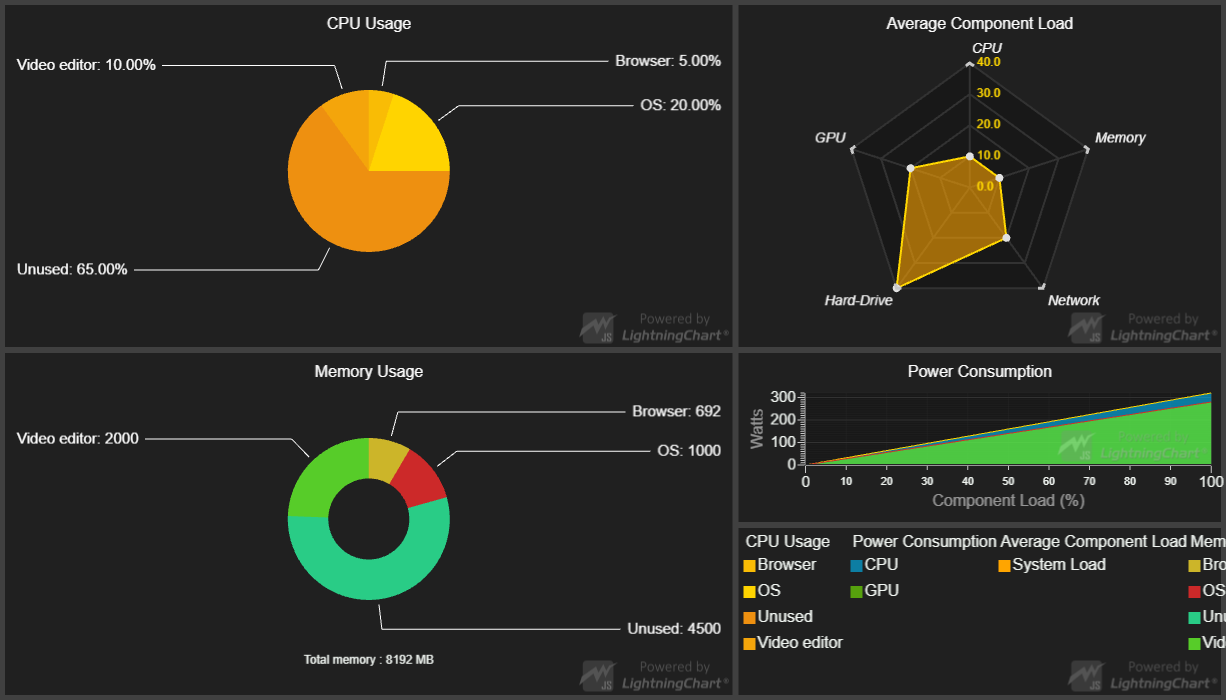
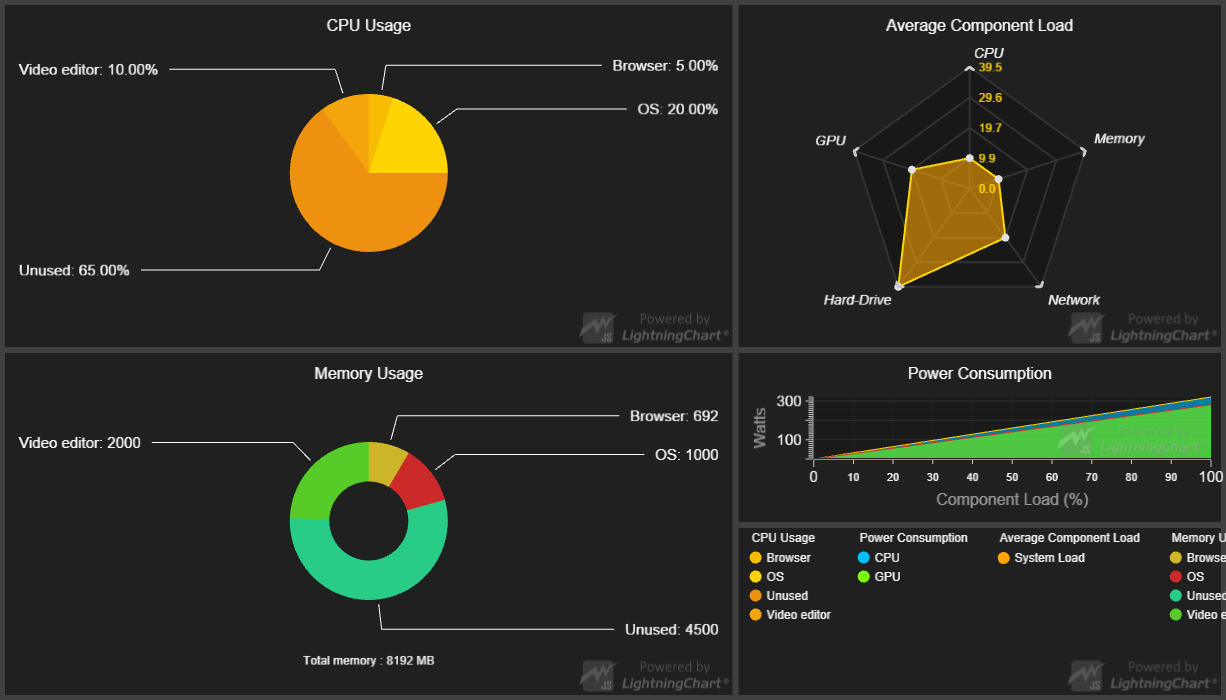
LCJS 3.0.0

diff --git a/src/index.js b/src/index.js
@@ -165,14 +165,14 @@ const pieType = window.innerWidth > 850 ? PieChartTypes.LabelsOnSides : PieChart
 
     // Set the custom result table
     areaCPU
-        .setResultTableFormatter((builder, series, position, highValue, lowValue) => {
+        .setCursorResultTableFormatter((builder, series, position, highValue, lowValue) => {
             return builder
                 .addRow('CPU')
                 .addRow('Power Consumption ' + highValue.toFixed(0) + ' watts')
                 .addRow('component load ' + position.toFixed(0) + ' %')
         })
     areaGPU
-        .setResultTableFormatter((builder, series, position, highValue, lowValue) => {
+        .setCursorResultTableFormatter((builder, series, position, highValue, lowValue) => {
             return builder
                 .addRow('GPU')
                 .addRow('Power Consumption ' + highValue.toFixed(0) + ' watts')
@@ -206,7 +206,7 @@ const pieType = window.innerWidth > 850 ? PieChartTypes.LabelsOnSides : PieChart
             { axis: 'Hard-Drive', value: 40 },
             { axis: 'GPU', value: 20 }
         )
-        .setResultTableFormatter((tableContentBuilder, series, value, axis, formatValue) => tableContentBuilder
+        .setCursorResultTableFormatter((tableContentBuilder, series, value, axis, formatValue) => tableContentBuilder
             .addRow(series.name)
             .addRow(axis)
             .addRow(value + ' %')
@@ -259,7 +259,7 @@ const pieType = window.innerWidth > 850 ? PieChartTypes.LabelsOnSides : PieChart
     // ----- Add TextBox below the Donut Chart-----
     donut.addUIElement(UIElementBuilders.TextBox.addStyler(
         textBox =>
-            textBox.setFont(fontSettings => fontSettings.setSize(12)).setText(`Total memory : ${totalMemoryUse} MB`)
+            textBox.setTextFont(fontSettings => fontSettings.setSize(12)).setText(`Total memory : ${totalMemoryUse} MB`)
     )
     )
         .setPosition({ x: 50, y: 10 })
@@ -271,3 +271,15 @@ const pieType = window.innerWidth > 850 ? PieChartTypes.LabelsOnSides : PieChart
 grid.setRowHeight(0, 2)
 grid.setColumnWidth(0, 3)
 grid.setColumnWidth(1, 2)
+
+// Reduce Font size of LegendBoxes.
+legend.setLegendBoxes((legendBox) => legendBox
+    .setTitleFont((font) => font
+        .setSize(12)
+    )
+    .setEntries((entry) => entry
+        .setTextFont((font) => font
+            .setSize(12)
+        )
+    )
+)

diff --git a/README.md b/README.md
@@ -55,12 +55,12 @@ Direct developer email support can be purchased through a [Support Plan][4] or b
 © Arction Ltd 2009-2020. All rights reserved.
 
 
-[Dashboard]: https://www.arction.com/lightningchart-js-api-documentation/v2.2.0/classes/dashboard.html
-[Solid FillStyle]: https://www.arction.com/lightningchart-js-api-documentation/v2.2.0/classes/solidfill.html
-[RGBA color factory]: https://www.arction.com/lightningchart-js-api-documentation/v2.2.0/globals.html#colorrgba
-[XY cartesian chart]: https://www.arction.com/lightningchart-js-api-documentation/v2.2.0/classes/chartxy.html
-[Axis]: https://www.arction.com/lightningchart-js-api-documentation/v2.2.0/classes/axis.html
-[Pie chart]: https://www.arction.com/lightningchart-js-api-documentation/v2.2.0/classes/piechart.html
-[Spider chart]: https://www.arction.com/lightningchart-js-api-documentation/v2.2.0/classes/spiderchart.html
-[Default library style]: https://www.arction.com/lightningchart-js-api-documentation/v2.2.0/globals.html#defaultlibrarystyle
+[Dashboard]: https://www.arction.com/lightningchart-js-api-documentation/v3.0.0/classes/dashboard.html
+[Solid FillStyle]: https://www.arction.com/lightningchart-js-api-documentation/v3.0.0/classes/solidfill.html
+[RGBA color factory]: https://www.arction.com/lightningchart-js-api-documentation/v3.0.0/globals.html#colorrgba
+[XY cartesian chart]: https://www.arction.com/lightningchart-js-api-documentation/v3.0.0/classes/chartxy.html
+[Axis]: https://www.arction.com/lightningchart-js-api-documentation/v3.0.0/classes/axis.html
+[Pie chart]: https://www.arction.com/lightningchart-js-api-documentation/v3.0.0/classes/piechart.html
+[Spider chart]: https://www.arction.com/lightningchart-js-api-documentation/v3.0.0/classes/spiderchart.html
+[Default library style]: https://www.arction.com/lightningchart-js-api-documentation/v3.0.0/globals.html#defaultlibrarystyle
 
